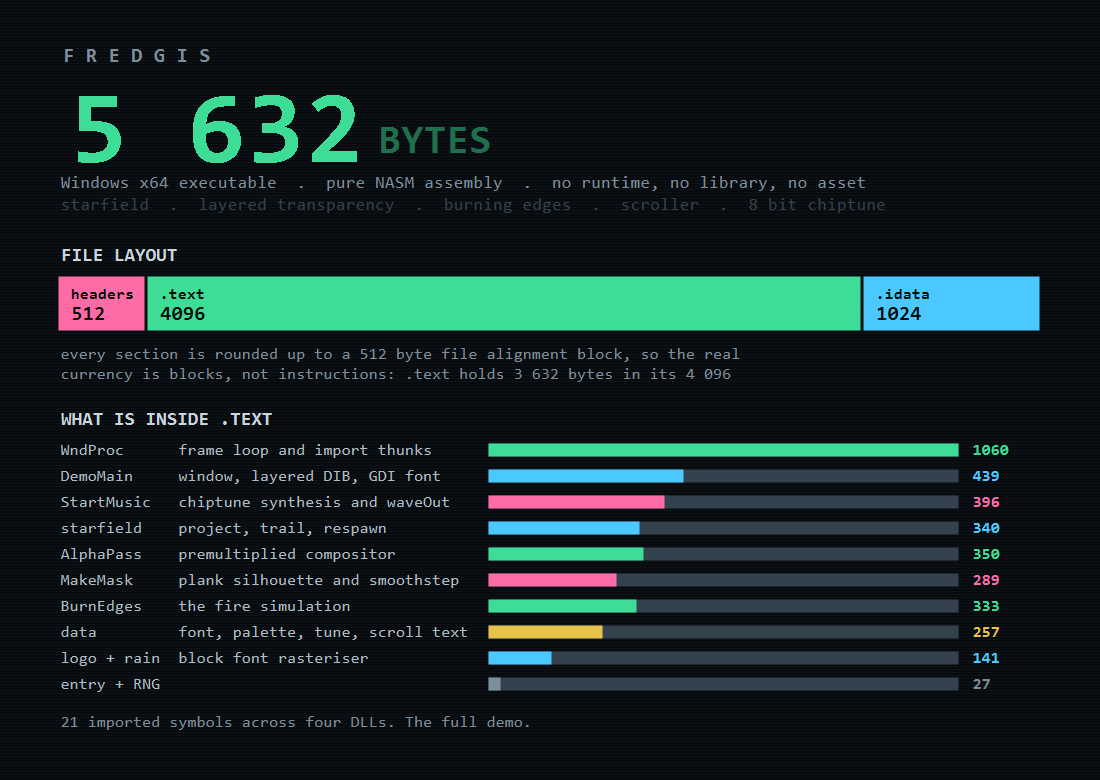
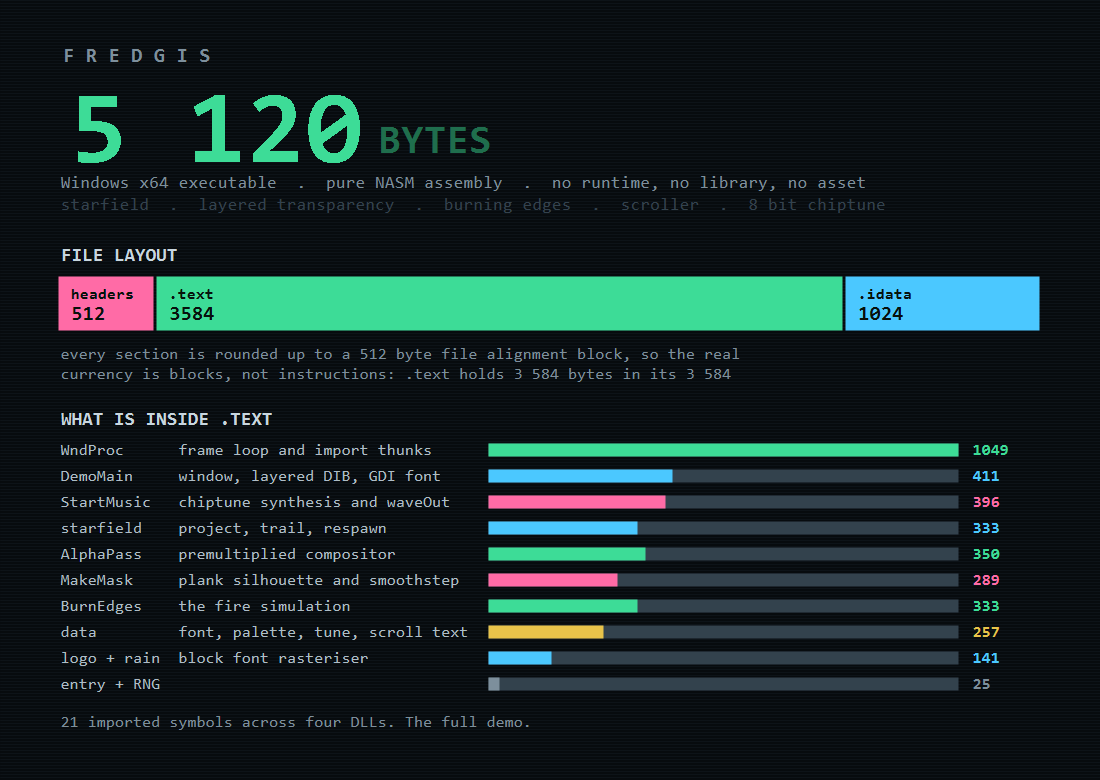
Shrink fredgis.exe to 5120 bytes (-512B PE file block reduction)
- Pass &pixels directly to CreateDIBSection in DemoMain (-16B)
- Optimize DemoMain/WndProc/DrawFrame stack frames to 120B and 88B (-12B)
- Use disp8 for WNDCLASSA and MSG in DemoMain (-12B)
- Optimize DrawTrail r8/r9 subtraction and register allocation (-7B)
- Use memory imul in NextRand (-2B)
- Cross the 3584-byte .text threshold: fredgis.exe drops from 5632 to 5120 bytes (-512B)
- Update make_budget.ps1, bytes.png, bytes4k.png and README.md

Copilot-Session: b00453fc-fde9-425e-ab58-828f13cedd49

diff --git a/README.md b/README.md
@@ -10,7 +10,7 @@
 </p>
 
 <p align="center">
-  <a href="https://github.com/fredgis/introfredgis/releases/latest/download/fredgis.exe"><b>⬇ fredgis.exe</b> — 5 632 bytes, everything</a><br>
+  <a href="https://github.com/fredgis/introfredgis/releases/latest/download/fredgis.exe"><b>⬇ fredgis.exe</b> — 5 120 bytes, everything</a><br>
   <a href="https://github.com/fredgis/introfredgis/releases/latest/download/fredgis4k.exe"><b>⬇ fredgis4k.exe</b> — 4 096 bytes, no sound, no scroller</a>
 </p>
 
@@ -30,7 +30,7 @@ whole block comes free — the only way down was to give up features.
 
 | | `fredgis.asm` | `fredgis4k.asm` |
 | --- | :---: | :---: |
-| **size** | **5 632 bytes** | **4 096 bytes** |
+| **size** | **5 120 bytes** | **4 096 bytes** |
 | imported symbols | 21, four DLLs | 8, three DLLs |
 | burning plank window, layered alpha | ✅ | ✅ |
 | block logo, Matrix rain, glitch | ✅ | ✅ |
@@ -88,7 +88,7 @@ toolchain, both on `PATH`.
 ```
 
 ```
-fredgis.exe      5632 bytes
+fredgis.exe      5120 bytes
 fredgis4k.exe    4096 bytes
 ```
 
@@ -582,7 +582,7 @@ second run.
 
 # Size
 
-The demo is **5 632 bytes**, sound included. Getting there was a fight with the
+The demo is **5 120 bytes**, sound included. Getting there was a fight with the
 PE layout at least as much as with the code.
 
 A PE file is `SizeOfHeaders` plus every section rounded up to the 512 byte file
@@ -590,10 +590,10 @@ alignment, so the real currency is *blocks*, not instructions:
 
 ```
 headers   0x0200                        (448 of 512 used)
-.text     0x0E30  →  0x1000             (3632 of 4096 used)
+.text     0x0E00  →  0x0E00             (3584 of 3584 used)
 .idata    0x03DC  →  0x0400             ( 988 of 1024 used)
                      ------
-                     0x1600  =  5632
+                     0x1400  =  5120
 ```
 
 ![byte budget](docs/bytes.png)
@@ -608,7 +608,8 @@ headers   0x0200                        (448 of 512 used)
 | **+ 16 s chiptune** | 7 168 | `.text` crossed 0x1000 and `winmm` pushed `.idata` past 0x400: two blocks |
 | optimisation pass | 6 656 | five imports deleted outright |
 | optimisation pass | 6 144 | interleaved records, hoisted bases, dead fast paths removed |
-| `pecompact.ps1` | **5 632** | the padded header block |
+| `pecompact.ps1` | 5 632 | the padded header block |
+| instruction & layout diet | **5 120** | `.text` drops under 3 584 (7 blocks) |
 
 The graphics-only demo was 6 144 bytes. It now has a soundtrack **and** is
 512 bytes smaller than it was without one.
@@ -678,7 +679,7 @@ linkers emit 0x200 to begin with.
 
 ## Where it stops
 
-`.text` holds 3 632 bytes in a 4 096 block and `.idata` 988 in a 1 024 block.
+`.text` holds 3 584 bytes in a 3 584 block and `.idata` 988 in a 1 024 block.
 Because the file is quantised in 512 byte steps, **shaving another twenty or
 fifty bytes changes nothing at all** — the next gain needs a whole block.
 
@@ -691,7 +692,7 @@ tricks do not get you there:
 | drop the high octave from the tune | −16 bytes, **file unchanged** |
 | apply every peephole idiom left | under 100 bytes, **file unchanged** |
 | `rep stosd` block fill and a SIMD premultiply | −32 in `.text`, **file unchanged** |
-| drop music + scroller + drag + window class | −944 in `.text`, −520 in `.idata`, **file 5 632 → 4 096** |
+| drop music + scroller + drag + window class | −928 in `.text`, −520 in `.idata`, **file 5 120 → 4 096** |
 
 The measured floor for `.idata` is the interesting part. Eleven imports — the
 smallest set that still creates a layered window and blits it — assembles to
